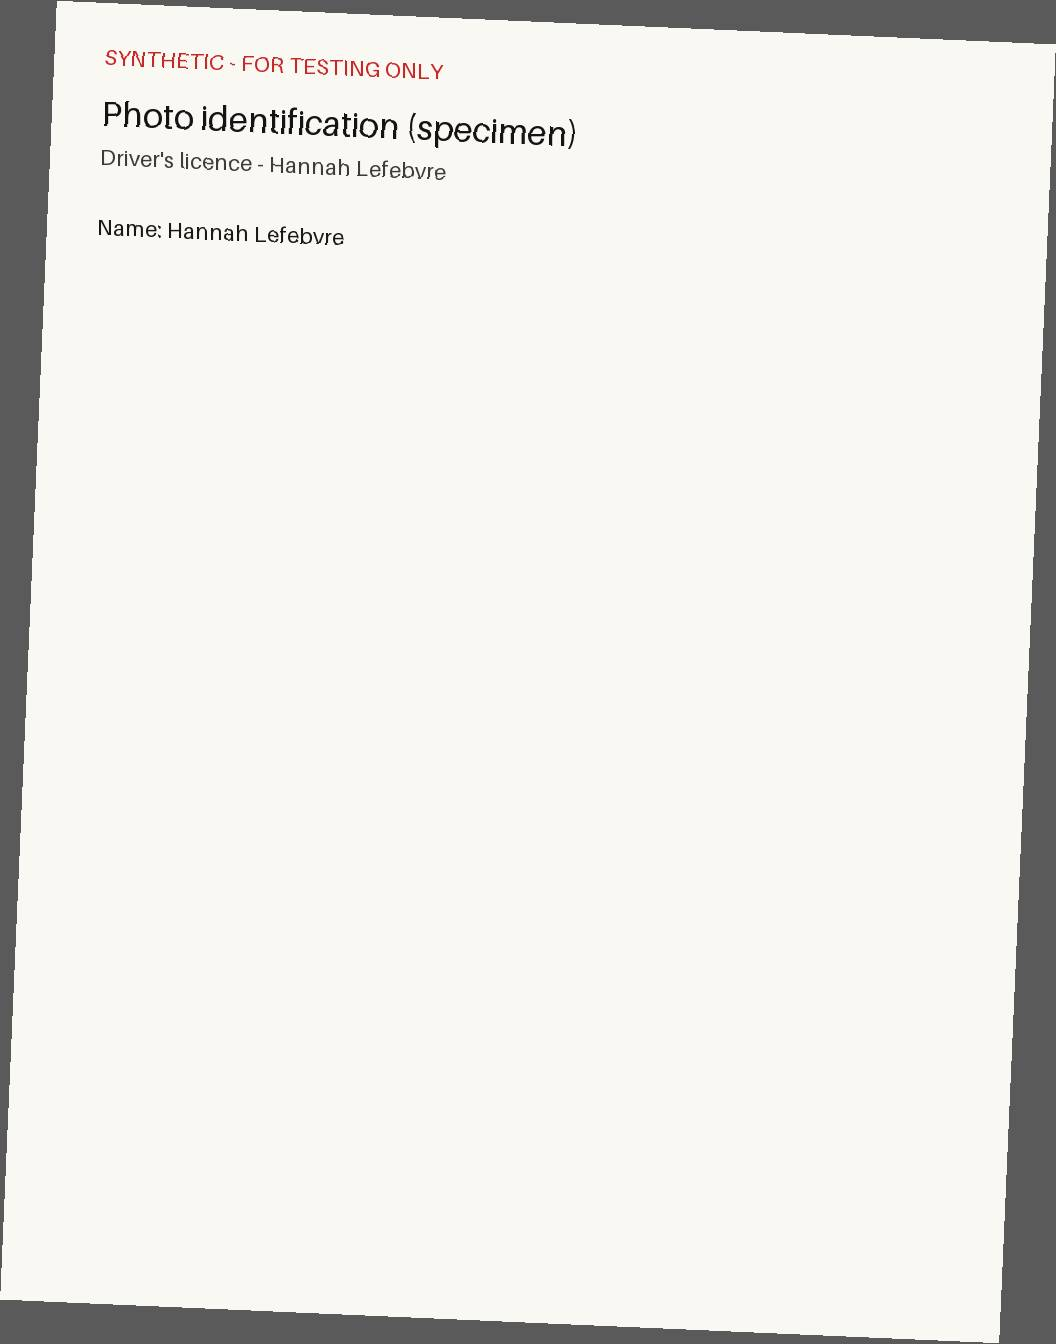
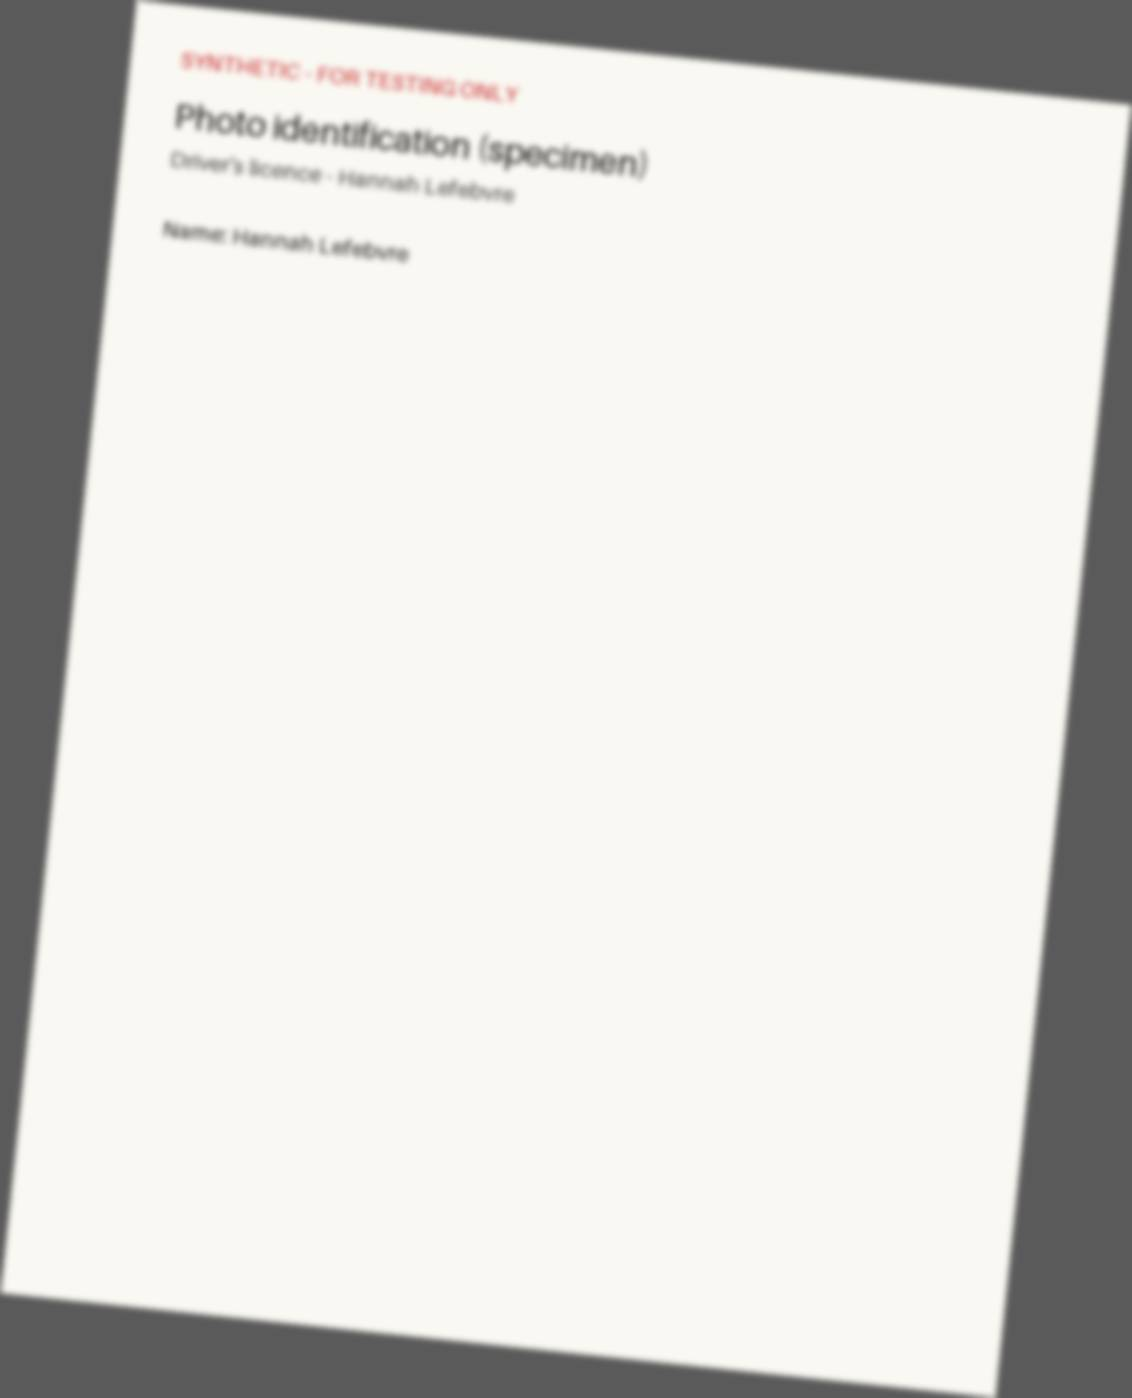
Add blurry ID to the primary demo file; remove duplicate back button
- Mark Hannah Lefebvre's driver's licence as hard to read and update the eval
- Keep the Demo Dashboard tab as the only way back from a file

Changed region(s): [[0.0, 0.0, 1.0, 1.0]]

diff --git a/app/static/index.html b/app/static/index.html
@@ -82,7 +82,6 @@ button:disabled, button.primary:disabled { background: var(--surface-strong); co
 button.link { background: none; border: 0; padding: 0; color: var(--link); font-weight: 480; border-radius: 0; }
 button.link:active { color: #1a3866; background: none; }
 .small-btn { font-size: 13px; padding: 0 14px; height: 32px; }
-#newBtn { background: var(--primary); color: #fff; }
 
 /* inbox */
 .queuehead { display: grid; grid-template-columns: 1fr auto; gap: 32px; align-items: end; }
@@ -418,7 +417,6 @@ select:focus, input:focus, textarea:focus { outline: none; border-color: var(--p
   .kpis span { white-space: normal; }
   .mainnav { margin-left: 0; }
   .mainnav button { padding: 8px 6px; font-size: 13px; }
-  #newBtn { display: none; }
   .evhead { display: none; }
   .evrow summary { grid-template-columns: 1fr auto; }
   .evrow summary .evcol { display: none; }
@@ -433,7 +431,6 @@ select:focus, input:focus, textarea:focus { outline: none; border-color: var(--p
     <button id="nav-eval" onclick="evalScreen()">Eval</button>
   </nav>
   <span class="spacer"></span>
-  <button id="newBtn" onclick="startScreen()" hidden>← Demo Dashboard</button>
   <div class="usermenu" title="Underwriter (sample user)" aria-label="Signed in as underwriter (sample user)" role="img">UW</div>
 </header>
 <main id="app"></main>
@@ -465,7 +462,7 @@ let listTab = "new";
 const OUTCOME_TONE = {"Conditions sent": "attn", "Clear to approve": "ok", "Referred to senior": "attn", "Declined": "bad"};
 function setNav(id) { ["dash", "eval"].forEach(n => $("#nav-" + n).classList.toggle("on", n === id)); }
 async function startScreen(which) {
-  $("#newBtn").hidden = true; view = null; setNav("dash");
+  view = null; setNav("dash");
   if (which) listTab = which;
   samples = samples.length ? samples : await api("/api/samples");
   const done = await api("/api/reviewed");
@@ -526,7 +523,7 @@ $("#picker").onchange = e => { uploadFiles([...e.target.files]); e.target.value 
 /* ---------- eval ---------- */
 const evalValue = v => esc(Array.isArray(v) ? (v.join(", ") || "None") : v === true ? "Yes" : v === false ? "No" : v);
 async function evalScreen(report) {
-  $("#newBtn").hidden = true; view = null; setNav("eval");
+  view = null; setNav("eval");
   const kpis = report ? `<div class="kpis"><div><b>${report.files_passed} of ${report.files_total}</b><span>Files passed</span></div>
       <div><b>${report.checks_passed} of ${report.checks_total}</b><span>Checks passed</span></div></div>` : "";
   const rows = report ? `<div class="evhead"><span>File</span><span>Expected</span><span>Agent</span><span>Checks</span><span>Result</span></div>` + report.files.map(f => {
@@ -576,7 +573,6 @@ function sendFile(file, onProgress) {
 
 async function uploadFiles(files, pos) {
   if (!files.length) return;
-  $("#newBtn").hidden = false;
   batch = (await api("/api/uploads", {})).batch_id;
   tab = null;
   $("#app").innerHTML = `<section class="band block lavender slim"><div class="inner">

diff --git a/underwriting/demo_cases.py b/underwriting/demo_cases.py
@@ -141,9 +141,9 @@ CASES: list[dict] = [
     },
     {
         "id": "case03",
-        "title": "Salaried – undisclosed car loan and missing employment letter",
-        "summary": "Townhouse purchase. The bureau shows a car loan the application leaves out, and the employment letter is missing.",
-        "planted": ["undisclosed_debt", "missing_document"],
+        "title": "Salaried – undisclosed car loan, missing letter and blurry ID",
+        "summary": "Townhouse purchase. The bureau shows a car loan the application leaves out, the employment letter is missing, and the ID photo is blurry.",
+        "planted": ["undisclosed_debt", "missing_document", "low_confidence"],
         "application": {
             "borrowers": [{"name": "Hannah Lefebvre", "credit_score": 718,
                            "incomes": [{"type": "salary", "annual_amount": "105000", "employer": "Vantage Civil Engineering"}]}],
@@ -172,7 +172,8 @@ CASES: list[dict] = [
             doc("appr", "appraisal", "Appraisal report", "appraisal.pdf",
                 {"value": "520000", "property_type": "townhouse", "marketability": "good"}),
             doc("tax", "property_tax", "Property tax bill", "tax.pdf", {"annual_tax": "4200"}),
-            doc("id1", "id", "Driver's licence – Hannah Lefebvre", "IMG_2201.jpg", {"name": "Hannah Lefebvre"}),
+            doc("id1", "id", "Driver's licence – Hannah Lefebvre", "IMG_2201.jpg", {"name": "Hannah Lefebvre"},
+                confidence=0.55, quality_note="Phone photo, skewed and blurred; details partly illegible"),
         ],
     },
     {

diff --git a/underwriting/evals.py b/underwriting/evals.py
@@ -13,7 +13,7 @@ EXPECTED = {
     "case02": {"recommendation": "refer_for_review", "gds": "36.44", "tds": "44.91", "ltv": "75.00",
                "issues": ["large_deposit", "self_employed_average", "tds_limit", "undisclosed_debt"]},
     "case03": {"recommendation": "refer_for_review", "gds": "35.93", "tds": "45.65", "ltv": "78.85",
-               "issues": ["missing_document", "tds_limit", "undisclosed_debt"]},
+               "issues": ["low_confidence", "missing_document", "tds_limit", "undisclosed_debt"]},
     "case04": {"recommendation": "refer_for_review", "gds": "36.81", "tds": "36.81", "ltv": "75.00",
                "issues": ["income_mismatch"]},
     "case05": {"recommendation": "refer_for_review", "gds": "38.36", "tds": "39.26", "ltv": "76.92",

diff --git a/tests/test_agent.py b/tests/test_agent.py
@@ -297,4 +297,6 @@ def test_primary_demo_file_reports_the_missing_employment_letter():
     r = run(get_case("case03"))
     assert "missing:employment_letter:Hannah Lefebvre" in {f["id"] for f in r["flags"]}
     assert any("employment" in c["text"].lower() for c in r["conditions"])
+    assert "low_confidence:id1" in {f["id"] for f in r["flags"]}
+    assert any("legible copy" in c["text"] for c in r["conditions"])
     assert r["ratios"]["tds_qualifying"] == "45.65"
